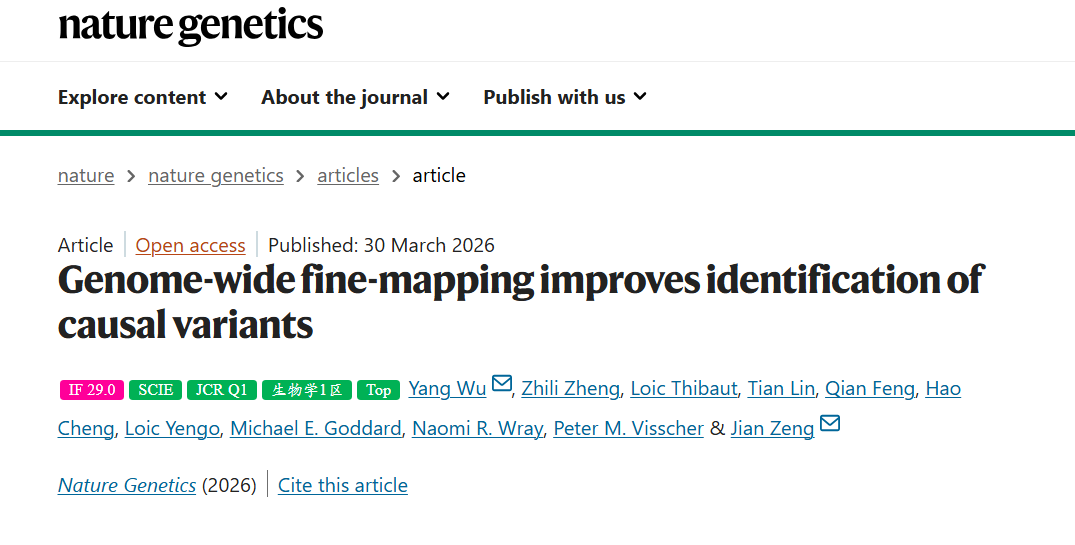
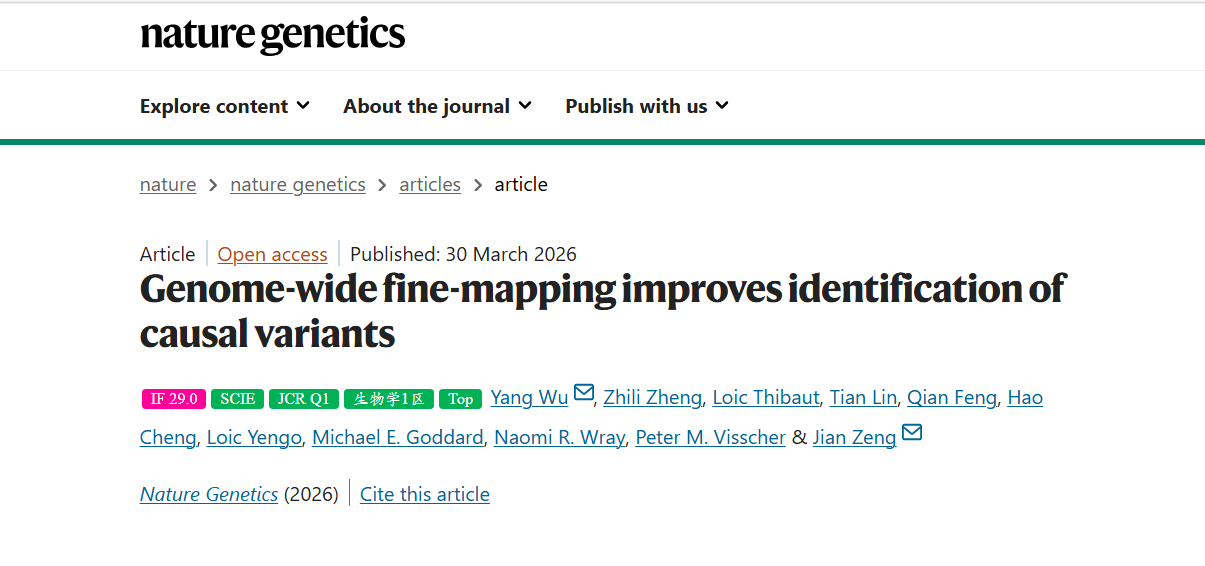
update

diff --git a/src/news.js b/src/news.js
@@ -1,15 +1,15 @@
 // src/data/news.js
 // ✅ 单一数据源：Home 的 RECENT NEWS 和 NewsPage 共用这一份
 export const newsList = [
-  {
-    id: 1,
-    image: require("@/assets/news/wulab.png"),
-    title: "Wulab website is now live!",
-    description: "We are pleased to announce the launch of the Wulab website, which showcases our research interests, team members, publications, and ongoing projects. The site will serve as a central platform for sharing updates, resources, and opportunities for collaboration.",
-    date: { month: "March", day: "12", year: "2026" },
-    type: "LAB ACTIVITIES",
-    link: ""
-  },
+  // {
+  //   id: 1,
+  //   image: require("@/assets/news/wulab.png"),
+  //   title: "Wulab website is now live!",
+  //   description: "We are pleased to announce the launch of the Wulab website, which showcases our research interests, team members, publications, and ongoing projects. The site will serve as a central platform for sharing updates, resources, and opportunities for collaboration.",
+  //   date: { month: "March", day: "12", year: "2026" },
+  //   type: "LAB ACTIVITIES",
+  //   link: ""
+  // },
   {
     id: 2,
     image: require("@/assets/news/huaxi.png"),
